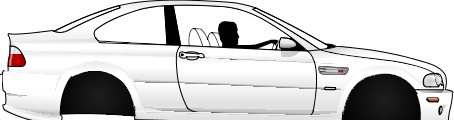
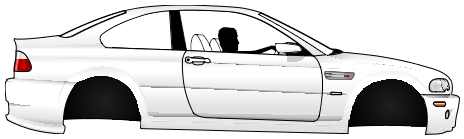
승리 및 패배 화면 추가

Changed region(s): [[0.0, 0.0, 1.0, 1.0], [0.1233, 0.7, 0.1542, 0.725], [0.1233, 0.65, 0.1542, 0.675]]

diff --git a/car.py b/car.py
@@ -1,7 +1,9 @@
 import game_world
 import game_framework
 from pico2d import *
-from Simulator import Simulator
+
+import result_mode
+from simulator import Simulator
 import car_types
 
 PIXEL_PER_METER = (800.0 / 20)
@@ -38,10 +40,15 @@ class Idle:
 	def do(car):
 		car.sim.engine.rpm -= 300 * car.sim.mission.ratio[car.sim.mission.gear] * game_framework.frame_time
 		car.sim.engine.rpm = max(car.sim.engine.rpm, 850)
+		if car.sim.engine.rpm >= car.sim.engine.max_rpm - 1000:
+			car.sim.engine.temperature += 10 * game_framework.frame_time
+		else:
+			car.sim.engine.temperature -= 10 * game_framework.frame_time
+			car.sim.engine.temperature = max(car.sim.engine.temperature, 50)
 		car.prev_speed = car.speed
 		car.speed -= 10 * game_framework.frame_time
 		car.speed = max(car.speed, 0)
-		car.eval_wheel_rotation()
+		car.sim.eval_wheel_rotation()
 		car.move_distance += car.speed * game_framework.frame_time
 
 	@staticmethod
@@ -65,10 +72,15 @@ class Drive:
 	def do(car):
 		car.sim.engine.rpm += car.car_type.rpm_raise * car.sim.mission.ratio[car.sim.mission.gear] * game_framework.frame_time							# 차량 업그레이드시 이 rpm 가중치를 올려주면 좋을듯함
 		car.sim.engine.rpm = min(car.sim.engine.rpm, car.sim.engine.max_rpm)
+		if car.sim.engine.rpm >= car.sim.engine.max_rpm - 1000:
+			car.sim.engine.temperature += 20 * game_framework.frame_time
+		else:
+			car.sim.engine.temperature -= 10 * game_framework.frame_time
+			car.sim.engine.temperature = max(car.sim.engine.temperature, 50)
 		car.sim.get_torque()
 		car.prev_speed = car.speed
-		car.eval_speed()
-		car.eval_wheel_rotation()
+		car.sim.eval_speed()
+		car.sim.eval_wheel_rotation()
 		car.move_distance += car.speed * game_framework.frame_time
 
 	@staticmethod
@@ -113,45 +125,34 @@ class Car:
 		self.acc = 0.0
 		self.move_distance = 0.0
 		self.dist_per_pixel = 0.0
+		self.state_show = load_font('ENCR10B.TTF', 16)
+
 		self.sim = Simulator(self)
 		self.state_machine = StateMachine(self)
 		self.state_machine.start()
 
-		self.accmeter = load_font('ENCR10B.TTF', 16)
-		self.speedometer = load_font('ENCR10B.TTF', 16)
-		self.rpmmeter = load_font('ENCR10B.TTF', 16)
-		self.torquemeter = load_font('ENCR10B.TTF', 16)
+		self.race_result = None
+		self.fail_statement = 'None'
+
+
 
 	def update(self):
 			self.state_machine.update()
 
+
 	def handle_event(self, event):
 		self.state_machine.handle_event(('INPUT', event))
 
-	def eval_speed(self):
-		if game_framework.frame_time != 0:
-			self.acc = (self.sim.engine.torque * self.sim.mission.ratio[self.sim.mission.gear] * self.car_type.diff_ratio) / self.car_type.weight
-			self.speed += self.acc * game_framework.frame_time
-
-	def eval_wheel_rotation(self):
-		if self.prev_speed != 0.0 and self.state_machine.cur_state == Drive:
-			self.car_type.wheel_rotation += (self.speed * game_framework.frame_time) / (self.car_type.wheel_radius)
-			# self.car_type.wheel_rotation = (self.move_distance * (2 * 3.141592) / self.car_type.wheel_radius**2 * 3.142592) * (self.speed / self.prev_speed)
-		elif self.prev_speed != 0.0 and self.state_machine.cur_state == Idle:
-			self.car_type.wheel_rotation -= (self.speed * game_framework.frame_time) / (self.car_type.wheel_radius)
-		elif self.prev_speed == 0.0:
-			self.car_type.wheel_rotation = 0.0
-	def get_pps(self):
-		self.SPEED_PER_PPS = ((self.speed * 1000 / 60.0) / 60.0) * PIXEL_PER_METER
 
 	def draw(self):
 		self.state_machine.draw()
 
 
-		self.accmeter.draw(0, 10, f'acc: {self.acc: .2f}', (255,255,0))
-		self.speedometer.draw(200, 10, f'speed: {self.speed: .2f}', (255,255,0))
-		self.speedometer.draw(200, 30, f'distance: {self.move_distance: .2f}', (255,255,0))
-		self.speedometer.draw(400, 30, f'wheel: {self.car_type.wheel_rotation: .2f}', (255,255,0))
-		self.speedometer.draw(600, 30, f'gear: {self.sim.mission.gear: .2f}', (255,255,0))
-		self.rpmmeter.draw(400, 10, f'rpm: {self.sim.engine.rpm : .2f}', (255,255,0))
-		self.torquemeter.draw(600, 10, f'torque: {self.sim.engine.torque: .2f}', (255,255,0))
+		self.state_show.draw(0, 10, f'acc: {self.acc: .2f}', (255,255,0))
+		self.state_show.draw(200, 10, f'speed: {self.speed: .2f}', (255,255,0))
+		self.state_show.draw(400, 10, f'rpm: {self.sim.engine.rpm : .2f}', (255,255,0))
+		self.state_show.draw(600, 10, f'torque: {self.sim.engine.torque: .2f}', (255,255,0))
+		self.state_show.draw(000, 30, f'temp: {self.sim.engine.temperature: .2f}', (255,255,0))
+		self.state_show.draw(200, 30, f'distance: {self.move_distance: .2f}', (255,255,0))
+		self.state_show.draw(400, 30, f'wheel: {self.car_type.wheel_rotation: .2f}', (255,255,0))
+		self.state_show.draw(600, 30, f'gear: {self.sim.mission.gear: .2f}', (255,255,0))

diff --git a/simulator.py b/simulator.py
@@ -1,8 +1,10 @@
 from pico2d import *
+
+import car
 # 차량 구동계 시뮬레이션
 import game_framework
 
-
+PIXEL_PER_METER = (800.0 / 20)
 
 class Mission:
 	def __init__(self, ratio, max_gear):
@@ -16,7 +18,7 @@ class Engine:
 		self.torque = 0.0
 		self.max_rpm = max_rpm
 		self.max_torque = max_torque
-		self.temperature = 0.0
+		self.temperature = 50
 
 
 class Simulator:
@@ -49,3 +51,19 @@ class Simulator:
 		dragForce = -0.5 * self.car.aerodynamics * self.car.frontal_area * self.car.speed ** 2
 		return dragForce
 
+
+	def eval_speed(self):
+		if game_framework.frame_time != 0:
+			self.car.acc = (self.engine.torque * self.mission.ratio[self.mission.gear] * self.car.car_type.diff_ratio) / self.car.car_type.weight
+			self.car.speed += self.car.acc * game_framework.frame_time
+
+	def eval_wheel_rotation(self):
+		if self.car.prev_speed != 0.0 and self.car.state_machine.cur_state == car.Drive:
+			self.car.car_type.wheel_rotation += (self.car.speed * game_framework.frame_time) / (self.car.car_type.wheel_radius)
+			# self.car_type.wheel_rotation = (self.move_distance * (2 * 3.141592) / self.car_type.wheel_radius**2 * 3.142592) * (self.speed / self.prev_speed)
+		elif self.car.prev_speed != 0.0 and self.car.state_machine.cur_state == car.Idle:
+			self.car.car_type.wheel_rotation -= (self.car.speed * game_framework.frame_time) / (self.car.car_type.wheel_radius)
+		elif self.car.prev_speed == 0.0:
+			self.car.car_type.wheel_rotation = 0.0
+	def get_pps(self):
+		self.SPEED_PER_PPS = ((self.car.speed * 1000 / 60.0) / 60.0) * PIXEL_PER_METER

diff --git a/play_mode.py b/play_mode.py
@@ -3,9 +3,14 @@ from pico2d import *
 import game_framework
 
 import game_world
-from Car import Car
+import result_mode
 from Strip import Strip
+from car import Car
 import car_types
+
+player = None
+strip = None
+start_time = None
 
 def handle_events():
 	events = get_events()
@@ -15,19 +20,21 @@ def handle_events():
 		elif event.type == SDL_KEYDOWN and event.key == SDLK_ESCAPE:
 			game_framework.quit()
 		else:
-			car.handle_event(event)
+			player.handle_event(event)
 
 
 def init():
 	global strip
-	global car
+	global player
+	global start_time
 
-	car = Car(car_types.Murcielago)
-	game_world.add_object(car, 1)
+	start_time = get_time()
 
-	strip = Strip(car)
+	player = Car(car_types.M3)
+	game_world.add_object(player, 1)
+
+	strip = Strip(player)
 	game_world.add_object(strip, 0)
-
 
 
 
@@ -37,6 +44,25 @@ def finish():
 
 
 def update():
+	if player.sim.engine.rpm > player.sim.engine.max_rpm:
+		player.race_result = False
+		player.fail_statement = 'Engine Blow'
+		game_framework.push_mode(result_mode)
+
+	if player.sim.engine.temperature >= 100:
+		player.race_result = False
+		player.fail_statement = 'Engine Overheating'
+		game_framework.push_mode(result_mode)
+
+	if player.move_distance > 5.0 and get_time() - start_time <= 3.0:
+		player.race_result = False
+		player.fail_statement = 'False Start'
+		game_framework.push_mode(result_mode)
+
+	if player.move_distance >= 500.0:
+		player.race_result = True
+		game_framework.push_mode(result_mode)
+
 	game_world.update()
 	game_world.handle_collisions()
 

diff --git a/car_types.py b/car_types.py
@@ -23,7 +23,7 @@ class M3:
 		self.diff_ratio = 3.62
 		self.aerodynamics = 0.32
 		self.frontal_area = 2.07
-		self.rpm_raise = 2000
+		self.rpm_raise = 800
 		self.ratio = (0.0, 4.23, 2.53, 1.67, 1.23, 1.0, 0.83)
 		self.max_gear = 6
 		self.max_rpm = 8000
@@ -31,10 +31,10 @@ class M3:
 		self.wheel_radius = 0.45 / 2
 
 		self.wheel_rotation = 0.0
-		self.front_wheel_x = 93
-		self.front_wheel_y = -30
-		self.rear_wheel_x = -77
-		self.rear_wheel_y = -30
+		self.front_wheel_x = 91
+		self.front_wheel_y = -27
+		self.rear_wheel_x = -75
+		self.rear_wheel_y = -27
 
 	def draw(self, x, y):
 		self.image.draw(x, y, 270, 72)
@@ -50,7 +50,7 @@ class EK9:
 		self.diff_ratio = 4.40
 		self.aerodynamics = 0.32
 		self.frontal_area = 2.09
-		self.rpm_raise = 800
+		self.rpm_raise = 1000
 		self.ratio = (0.0, 3.23, 2.105, 1.458, 1.107, 1.0, 0.83)
 		self.max_gear = 4
 		self.max_rpm = 9000
@@ -137,7 +137,7 @@ class CLK:
 		self.diff_ratio = 2.65
 		self.aerodynamics = 0.28
 		self.frontal_area = 2.44
-		self.rpm_raise = 800
+		self.rpm_raise = 700
 		self.ratio = (0.0, 4.38, 2.86, 1.92, 1.35, 1.00, 0.87, 0.73)
 		self.max_gear = 7
 		self.max_rpm = 7500
@@ -167,7 +167,7 @@ class Murcielago:
 		self.diff_ratio = 2.53
 		self.aerodynamics = 0.33
 		self.frontal_area = 2.53
-		self.rpm_raise = 1000
+		self.rpm_raise = 600
 		self.ratio = (0.0, 3.09, 2.10, 1.56, 1.24, 1.06, 0.93)
 		self.max_gear = 6
 		self.max_rpm = 8000

diff --git a/Strip.py b/Strip.py
@@ -2,6 +2,8 @@ import game_world
 import game_framework
 from pico2d import *
 
+import play_mode
+
 PIXEL_PER_METER = (800.0 / 20)
 
 TIME_PER_ACTION = 0.5
@@ -20,18 +22,17 @@ class Strip:
 		self.player = car				# 프레임 움직임의 기준이 되는 속도를 플레이어의 자동차가 갖고있음.
 		self.start_line = load_image('Start_Line.png')
 		self.start_sign = None
-		self.start_time = get_time()
 
 	def update(self):
 		self.crowd_frame = ((self.player.move_distance * PIXEL_PER_METER) + 0.0 * game_framework.frame_time) % 1100
 		self.anim_frame = ((self.player.move_distance * PIXEL_PER_METER) + 0.0 * game_framework.frame_time) % 100
-		if get_time() - self.start_time <= 1.0:
+		if get_time() - play_mode.start_time <= 1.0:
 			self.start_sign = load_image('sign1.png')
-		elif get_time() - self.start_time <= 2.0:
+		elif get_time() - play_mode.start_time <= 2.0:
 			self.start_sign = load_image('sign2.png')
-		elif get_time() - self.start_time <= 3.0:
+		elif get_time() - play_mode.start_time <= 3.0:
 			self.start_sign = load_image('sign3.png')
-		elif get_time() - self.start_time <= 4.0:
+		elif get_time() - play_mode.start_time <= 4.0:
 			self.start_sign = load_image('sign4.png')
 
 	def draw(self):

diff --git a/result_mode.py b/result_mode.py
@@ -1,0 +1,43 @@
+from pico2d import *
+import game_framework
+import play_mode
+
+# 패배조건
+# 1. 부정출발
+# 2. 엔진 블로우(변속 실수로인해 최대 RPM을 넘음)
+# 3. 차량 과열
+
+def init():
+	global image
+	global running
+	global statement
+	if play_mode.player.race_result is True:
+		image = load_image('Win_Screen.png')
+	else:
+		image = load_image('Lose_Screen.png')
+		statement = load_font('ENCR10B.TTF', 16)
+
+def finish():
+	global image
+	del image
+
+
+def update():
+	if play_mode.player.race_result is False:
+		statement.draw(100, 300, play_mode.player.fail_statement, (255,255,0))
+
+
+def draw():
+	clear_canvas()
+	image.draw(400, 300)
+	update_canvas()
+
+
+def handle_events():
+	events = get_events()
+	for event in events:
+		if event.type == SDL_QUIT:
+			game_framework.quit()
+		if event.type == SDL_KEYDOWN and event.key == SDLK_SPACE:
+			game_framework.pop_mode()
+			game_framework.change_mode(play_mode)

diff --git a/title_mode.py b/title_mode.py
@@ -1,0 +1,33 @@
+from pico2d import *
+import game_framework
+import play_mode
+
+
+def init():
+	global image
+	global running
+	image = load_image('Start_Screen.png')
+
+
+def finish():
+	global image
+	del image
+
+
+def update():
+	pass
+
+
+def draw():
+	clear_canvas()
+	image.draw(400, 300)
+	update_canvas()
+
+
+def handle_events():
+	events = get_events()
+	for event in events:
+		if event.type == SDL_QUIT:
+			game_framework.quit()
+		if event.type == SDL_KEYDOWN and event.key == SDLK_SPACE:
+			game_framework.change_mode(play_mode)

diff --git a/main.py b/main.py
@@ -1,7 +1,7 @@
 from pico2d import open_canvas, delay, close_canvas
 import game_framework
 
-import play_mode as start_mode
+import title_mode as start_mode
 
 open_canvas(800, 600)
 game_framework.run(start_mode)
